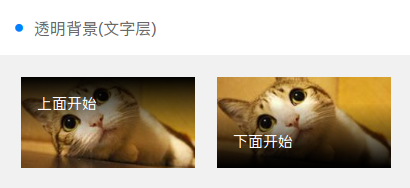
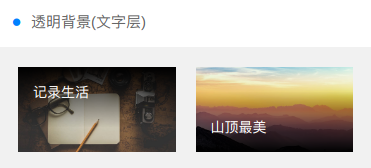
feat:背景

diff --git a/docs/zh-cn/basic/background.md b/docs/zh-cn/basic/background.md
@@ -1,6 +1,63 @@
+## 中国风
+
+<table>
+    <tr>
+        <td width="30%">
+            <table>
+                <thead>
+                    <tr>
+                        <th>说明</th>
+                        <th>className</th>
+                        <th>颜色编号</th>
+                    </tr>
+                </thead>
+            <tr>
+                <td>墨紫</td>
+                <td>bg-mozi</td>
+                <td>#310f1b</td>
+            </tr>
+            <tr>
+                <td>檀紫</td>
+                <td>bg-tanzi</td>
+                <td>#381924</td>
+            </tr>
+            <tr>
+                <td>青莲</td>
+                <td>bg-qinglian</td>
+                <td>#8b2671</td>
+            </tr>
+            <tr>
+                <td>水红</td>
+                <td>bg-shuihong</td>
+                <td>#f1c4cd</td>
+            </tr>
+            <tr>
+                <td>槿紫</td>
+                <td>bg-jinzi</td>
+                <td>#806d9e</td>
+            </tr>
+            <tr>
+                <td>花青</td>
+                <td>bg-huaqing</td>
+                <td>#2376b7</td>
+            </tr>
+            <tr>
+                <td>釉蓝</td>
+                <td>bg-youlan</td>
+                <td>#1781b5</td>
+            </tr>
+            </table>
+        </td>
+        <td width="30%" height="100%">
+            <img src="https://omycli.github.io/wuc-docs/_image/chinese.png" alt="中国风" />
+        </td>
+    </tr>
+</table>
+
 # 背景颜色
-> 背景阴影效果class `shadow-blur`  
-> 背景圆边角效果class `radius`
+
+> 背景阴影效果 class `shadow-blur`  
+> 背景圆边角效果 class `radius`
 
 ## 深色背景
 
@@ -99,6 +156,7 @@
 </table>
 
 ## 淡色背景
+
 <table>
     <tr>
         <td width="20%">
@@ -194,6 +252,7 @@
 </table>
 
 ## 渐变背景
+
 <table>
     <tr>
         <td width="30%">
@@ -245,22 +304,24 @@
 
 ## 背景渲染
 
->包括图片背景和视频背景
-
+> 包括图片背景和视频背景
 
 | 参数名      | 类型   | 默认值 | 描述                 |
 | ----------- | ------ | ------ | -------------------- |
 | type        | String | image  | 背景类型             |
 | link        | String | 空     | 背景图片（视频）链接 |
-| extendClass | String | 空     | 扩展css类            |
+| extendClass | String | 空     | 扩展 css 类          |
 
 ### 图片背景
+
 ![图片背景](../../_image/bg-image.png)
+
 ```html
 <template>
-    <bg-render 
-        link="https://albedo-theme.com/wp-content/uploads/2016/08/pexels-photo-26180.jpg" 
-        extend-class="bg-mask padding-tb-xl">
+    <bg-render
+        link="https://albedo-theme.com/wp-content/uploads/2016/08/pexels-photo-26180.jpg"
+        extend-class="bg-mask padding-tb-xl"
+    >
         <div class="padding-xl text-white">
             <div class="padding-xs text-xl">我和春天有个约会</div>
             <div class="padding-xs">I Have a Date with Spring</div>
@@ -269,96 +330,67 @@
 </template>
 
 <script>
-import BgRender from "@/components/basics/bgRender";
-export default {
-  data() {
-    return {};
-  },
+    import BgRender from '@/components/basics/bgRender';
+    export default {
+        data() {
+            return {};
+        },
 
-  components: { BgRender },
+        components: { BgRender },
 
-  computed: {},
+        computed: {},
 
-  methods: {},
+        methods: {},
 
-  mounted() {}
-};
-</script>
-```
-
-### 视频背景
-![视频背景](../../_image/bg-video.gif)
-```html
-<template>
-    <bg-render 
-        type="video" 
-        link="https://www.weilanwl.com/theme/wl/assets/images/slider1.mp4" 
-        extend-class="bg-mask">
-        <cover-view class="padding-xl text-white">
-          <cover-view class="padding-xs text-xl">开源是创新的动力之源</cover-view>
-          <cover-view
-            class="padding-xs"
-          >Open Source is the Power Source of Innovation</cover-view>
-        </cover-view>
-    </bg-render>
-</template>
-
-<script>
-import BgRender from "@/components/basics/bgRender";
-export default {
-  data() {
-    return {};
-  },
-
-  components: { BgRender },
-
-  computed: {},
-
-  methods: {},
-
-  mounted() {}
-};
+        mounted() {}
+    };
 </script>
 ```
 
 ### 透明背景(文字层)
+
 ![透明背景(文字层)](../../_image/bg-trans.png)
+
 ```html
 <template>
     <div class="grid col-2 padding-sm">
         <div class="padding-sm">
-          <bg-render
-            link="https://image.weilanwl.com/img/square-3.jpg"
-            extend-class="padding-bottom-xl"
-          >
-            <div class="bg-shadeTop padding padding-bottom-xl">上面开始</div>
-          </bg-render>
+            <bg-render
+                link="https://images.pexels.com/photos/269923/pexels-photo-269923.jpeg?auto=compress&cs=tinysrgb&dpr=2&w=500"
+                extend-class="padding-bottom-xl"
+            >
+                <div class="bg-shadeTop padding padding-bottom-xl">
+                    记录生活
+                </div>
+            </bg-render>
         </div>
         <div class="padding-sm">
-          <bg-render
-            link="https://image.weilanwl.com/img/square-3.jpg"
-            extend-class="padding-top-xl"
-          >
-            <div class="bg-shadeBottom padding padding-top-xl">下面开始</div>
-          </bg-render>
+            <bg-render
+                link="https://images.pexels.com/photos/1323550/pexels-photo-1323550.jpeg?auto=compress&cs=tinysrgb&dpr=2&w=500"
+                extend-class="padding-top-xl"
+            >
+                <div class="bg-shadeBottom padding padding-top-xl">
+                    山顶最美
+                </div>
+            </bg-render>
         </div>
-      </div>
+    </div>
 </template>
 
 <script>
-import BgRender from "@/components/basics/bgRender";
-export default {
-  data() {
-    return {};
-  },
+    import BgRender from '@/components/basics/bgRender';
+    export default {
+        data() {
+            return {};
+        },
 
-  components: { BgRender },
+        components: { BgRender },
 
-  computed: {},
+        computed: {},
 
-  methods: {},
+        methods: {},
 
-  mounted() {}
-};
+        mounted() {}
+    };
 </script>
 ```

diff --git a/docs/zh-cn/basic/layer.md b/docs/zh-cn/basic/layer.md
@@ -232,62 +232,6 @@
     </tr>
 </table>
 
-### 等高
-
-<table>
-    <tr>
-        <td width="20%">
-            <table>
-                <thead>
-                    <tr>
-                        <th>说明</th>
-                        <th>className</th>
-                    </tr>
-                </thead>
-            <tr>
-                <td>分列数</td>
-                <td>col-(Number)</td>
-            </tr>
-            <tr>
-                <td>等高属性</td>
-                <td>grid-square</td>
-            </tr>
-            </table>
-        </td>
-        <td width="30%" height="100%">
-            <img src="https://omycli.github.io/wuc-docs/_image/grid-h.png" alt="等高" />
-        </td>
-    </tr>
-</table>
-
-## 辅助布局
-### 浮动
-<table>
-    <tr>
-        <td width="20%">
-            <table>
-                <thead>
-                    <tr>
-                        <th>说明</th>
-                        <th>className</th>
-                    </tr>
-                </thead>
-            <tr>
-                <td>左浮动</td>
-                <td>fl</td>
-            </tr>
-            <tr>
-                <td>右浮动</td>
-                <td>fr</td>
-            </tr>
-            </table>
-        </td>
-        <td width="30%" height="100%">
-            <img src="https://omycli.github.io/wuc-docs/_image/layer-lr.png" alt="浮动" />
-        </td>
-    </tr>
-</table>
-
 ### 内外边距
 >{size}的尺寸有xs/sm/df/lg/xl
 
